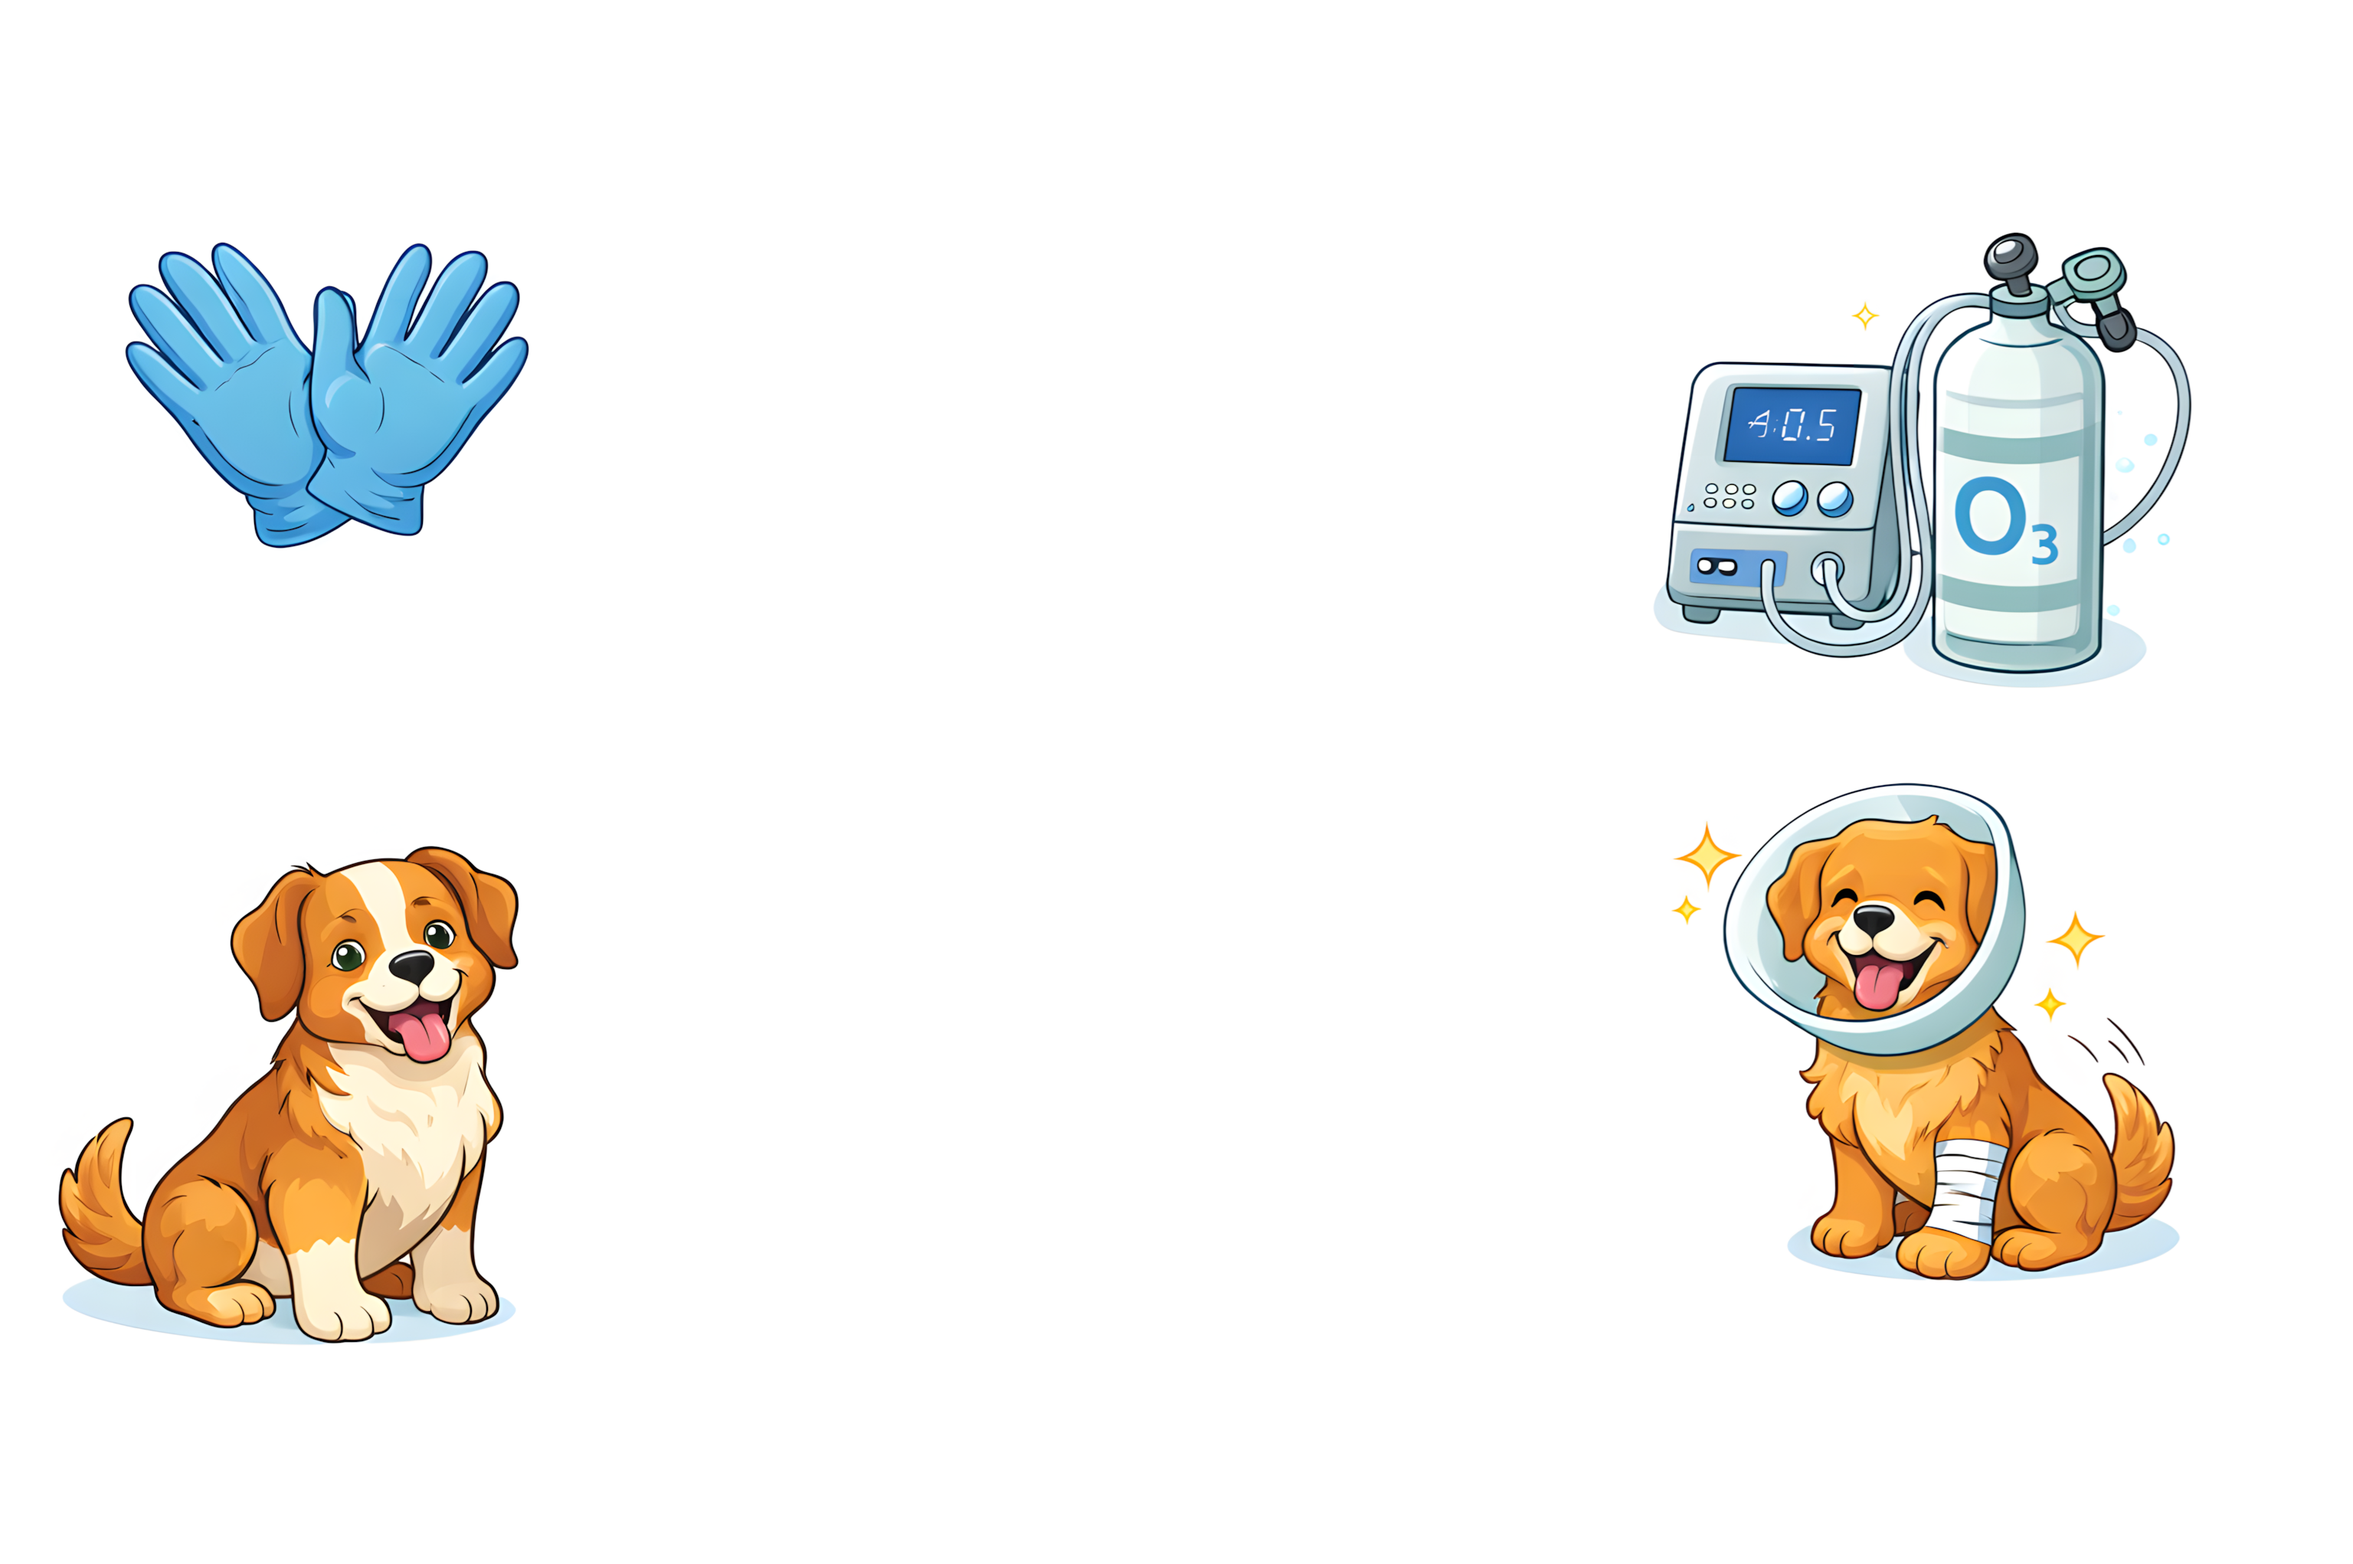
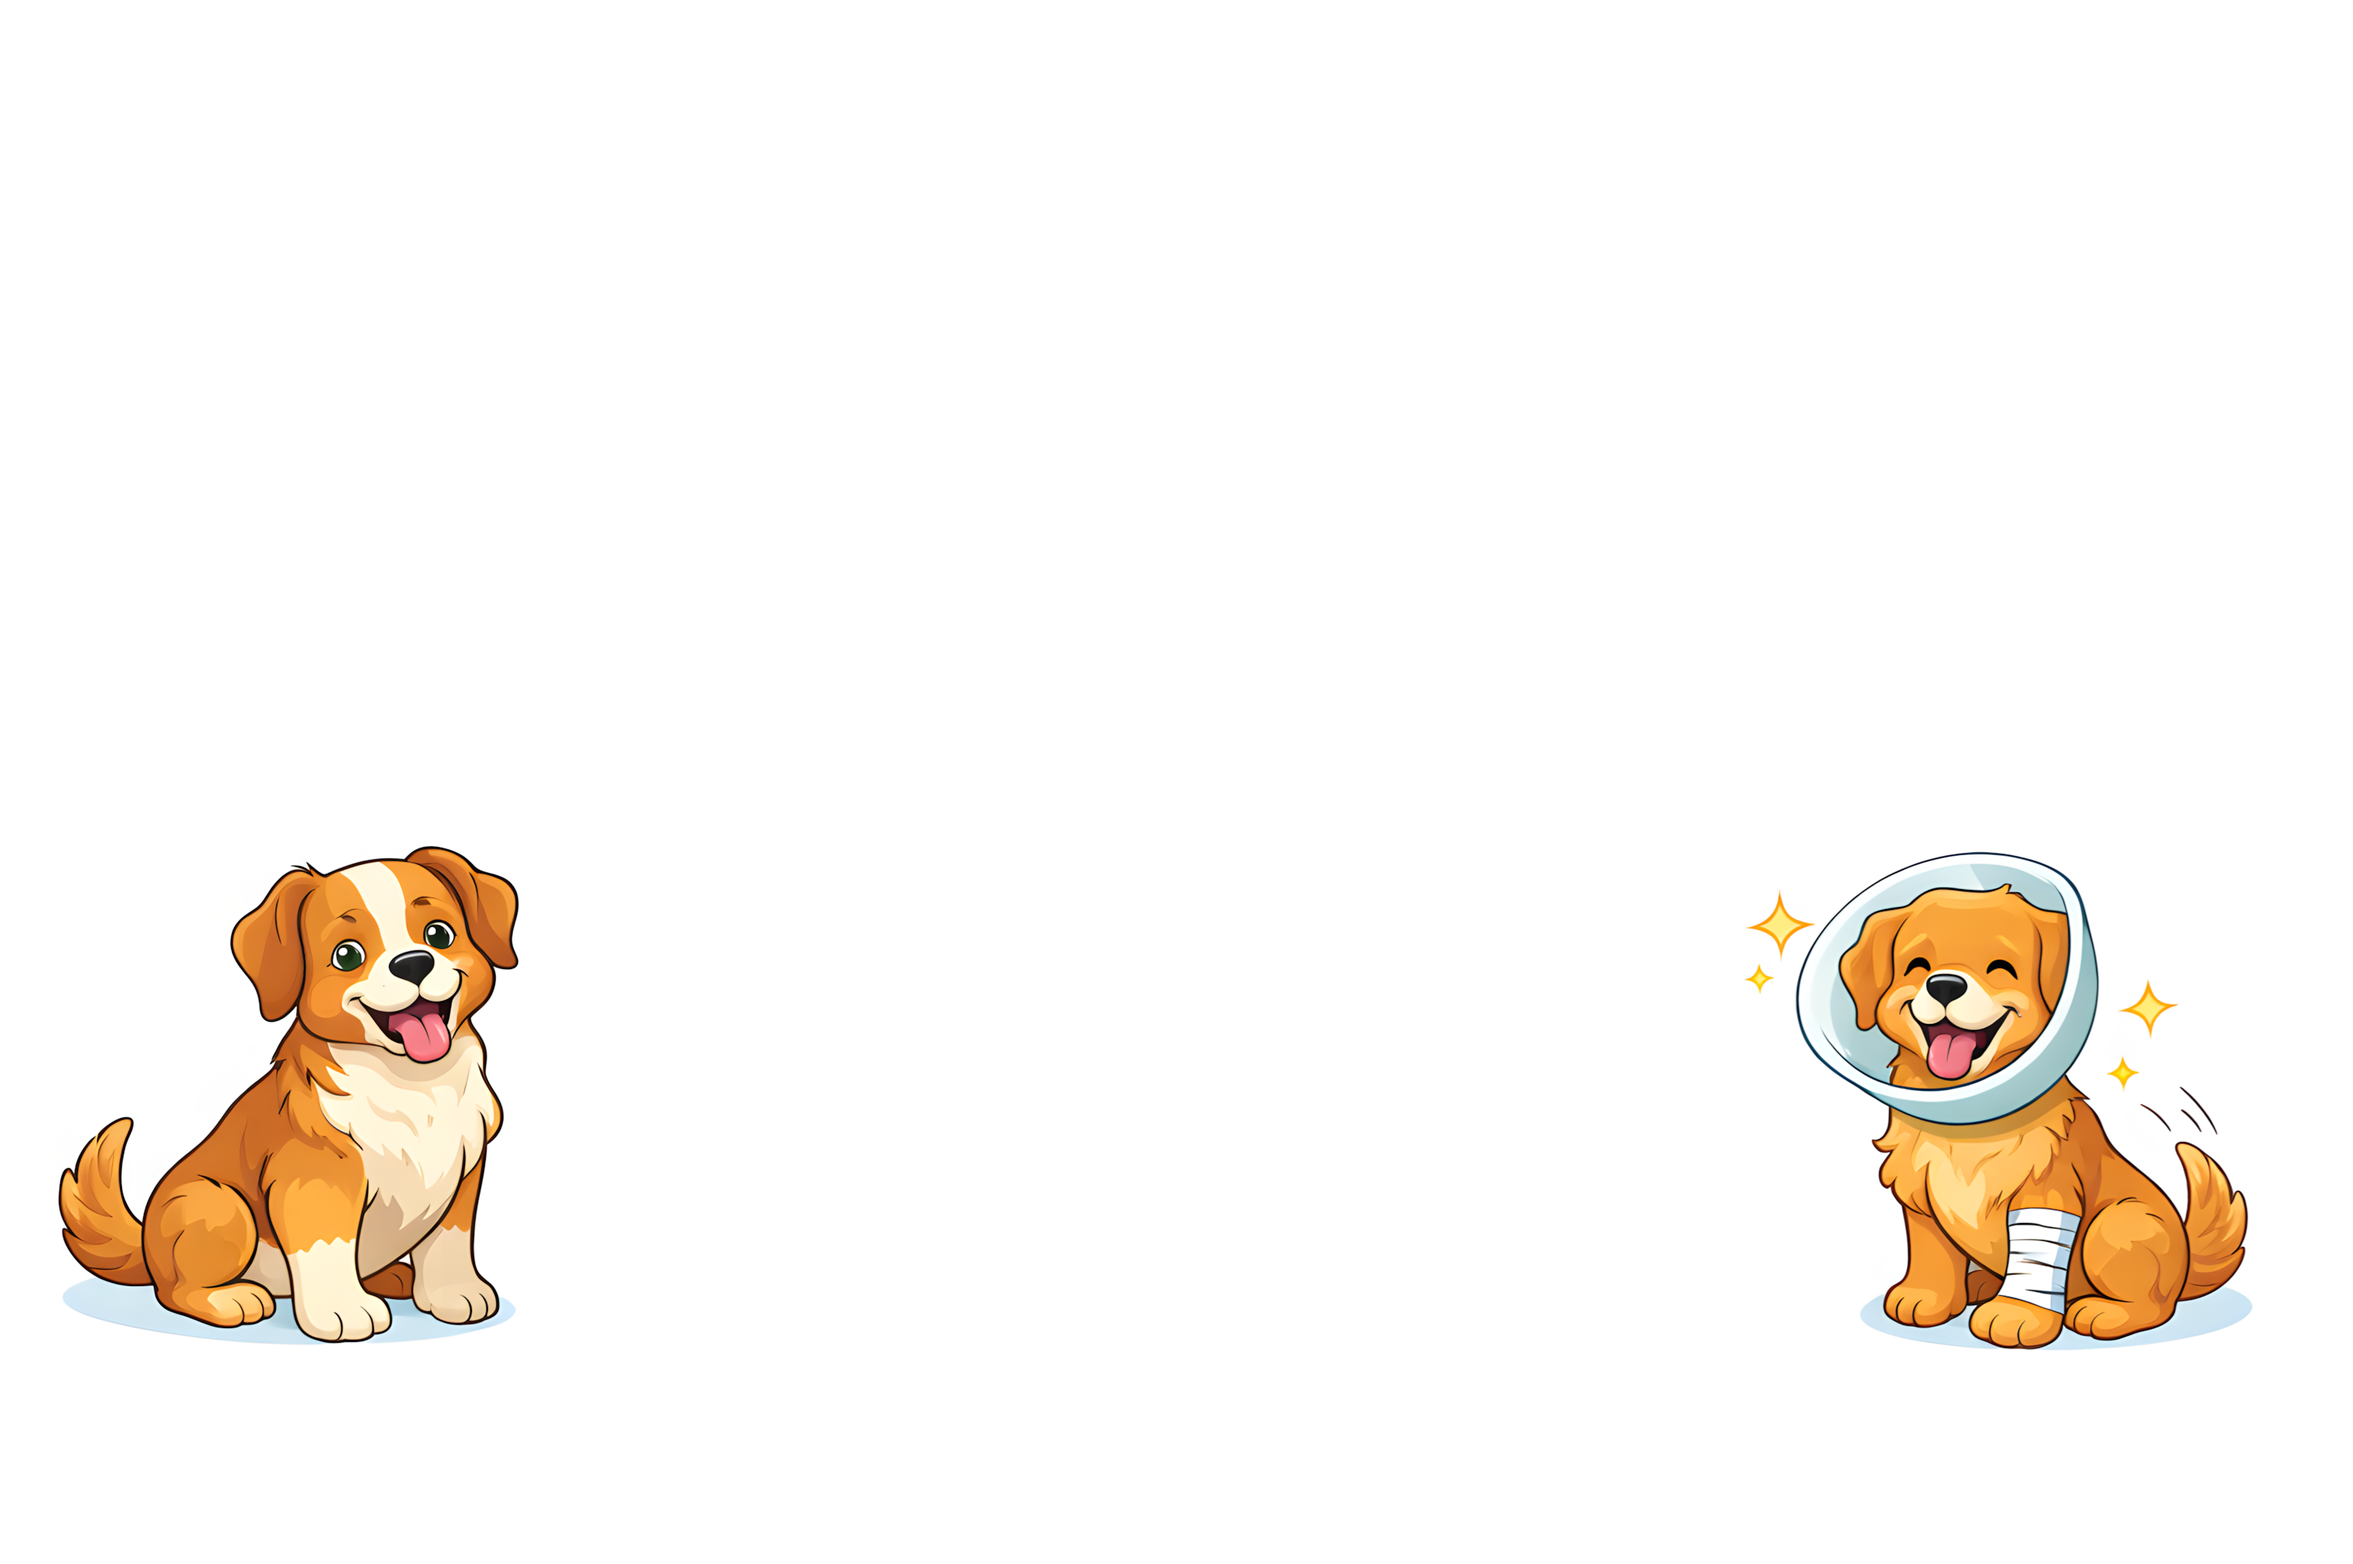
update v2

Changed region(s): [[0.7188, 0.4936, 0.9688, 0.8639], [0.6875, 0.1543, 0.9375, 0.4628], [0.0312, 0.1543, 0.25, 0.3702]]

diff --git a/index.html b/index.html
@@ -4,7 +4,7 @@
 <meta charset="UTF-8">
 <meta name="viewport" content="width=device-width, initial-scale=1.0">
 <title>Ozonoterapia Veterinaria – Somavet Formación</title>
-<link href="https://fonts.googleapis.com/css2?family=Cormorant+Garamond:ital,wght@0,400;0,600;1,400&family=Outfit:wght@300;400;500;600&display=swap" rel="stylesheet">
+<link href="https://fonts.googleapis.com/css2?family=Cormorant+Garamond:ital,wght@0,400;0,600;1,400&family=Outfit:wght@300;400;500;600&family=Inter:wght@400;600;700;800&display=swap" rel="stylesheet">
 <style>
 *,*::before,*::after{box-sizing:border-box;margin:0;padding:0}
 :root{
@@ -13,7 +13,7 @@
   --accent:#c8f25a;--white:#fff;--gray:#6b7e7a;
 }
 html{scroll-behavior:smooth}
-body{font-family:'Outfit',sans-serif;background:var(--cream);color:var(--ink);overflow-x:hidden}
+body{font-family:'Outfit',sans-serif;background:white;color:var(--ink);overflow-x:hidden}
 
 /* NAV */
 nav{position:fixed;top:0;left:0;right:0;z-index:200;display:flex;align-items:center;justify-content:space-between;padding:1rem 3rem;background:rgba(3,46,41,.96);backdrop-filter:blur(10px);border-bottom:1px solid rgba(14,168,148,.15);box-shadow:4px 8px 5px rgba(0,0,0,0.3)}
@@ -38,7 +38,7 @@ nav{position:fixed;top:0;left:0;right:0;z-index:200;display:flex;align-items:cen
 .hero-title{font-family:'Cormorant Garamond',serif;font-size:clamp(3.2rem,7vw,6rem);line-height:1.05;color:rgb(36, 36, 36);margin-bottom:1.6rem;animation:fadeUp .6s .1s ease both}
 .hero-title em{font-style:italic;color:var(--teal-lt)}
 .hero-initial{position:relative;display:inline-block;white-space:nowrap}
-.hero-initial::after{content:'';position:absolute;left:0;right:0;bottom:8px;height:5px;background:#000;opacity:1}
+.hero-initial::after{content:'';position:absolute;left:0;right:0;bottom:2px;height:5px;background:#000;opacity:1}
 .hero-sub{font-size:1.4rem;line-height:1.8;color:rgba(22, 22, 22, 0.76);max-width:580px;margin:0 auto 2.8rem;animation:fadeUp .6s .2s ease both}
 .hero-cta{display:flex;gap:1rem;flex-wrap:wrap;justify-content:center;animation:fadeUp .6s .3s ease both}
 .btn-primary{background:var(--accent);color:var(--ink);font-family:'Outfit',sans-serif;font-weight:600;font-size:1.1rem;letter-spacing:.06em;text-transform:uppercase;padding:.85rem 2rem;border:none;border-radius:3px;cursor:pointer;text-decoration:none;transition:transform .2s,box-shadow .2s;display:inline-block}
@@ -202,6 +202,99 @@ section{padding:5rem 4rem}
 .next-desc{font-size:1.2rem;color:rgba(245,240,232,.5);margin-top:.4rem;max-width:340px}
 .next-btn{background:var(--accent);color:var(--ink);font-family:'Outfit',sans-serif;font-weight:600;font-size:1.1rem;letter-spacing:.08em;text-transform:uppercase;padding:1rem 2.5rem;border-radius:3px;text-decoration:none;white-space:nowrap;flex-shrink:0;transition:transform .2s,box-shadow .2s}
 .next-btn:hover{transform:translateY(-2px);box-shadow:0 8px 24px rgba(200,242,90,.2)}
+.new-hero {
+  padding: 100px 40px;
+  margin-top: 200px;
+  margin-bottom: 200px;
+  background: white;
+}
+.new-hero-container {
+  max-width: 1200px;
+  margin: 0 auto;
+  display: flex;
+  align-items: center;
+  justify-content: space-between;
+  gap: 60px;
+}
+/* TEXT */
+.new-hero-text {
+  flex: 1;
+  max-width: 520px;
+}
+/* TAG */
+.new-hero-text .new-tag {
+  display: inline-block;
+  font-size: 13px;
+  font-weight: 700;
+  letter-spacing: 1.2px;
+  color: #0ea5a4; /* teal similar al de la imagen */
+  margin-bottom: 12px;
+}
+/* TITULO */
+.new-hero-text h1 {
+  font-size: 52px;
+  font-weight: 800;
+  line-height: 1.1;
+  color: #0f172a;
+  margin-bottom: 20px;
+  font-family: 'Inter', sans-serif;
+}
+/* PARRAFOS */
+.new-hero-text p {
+  font-size: 18px;
+  color: #475569;
+  line-height: 1.7;
+  margin-bottom: 14px;
+  font-family: 'Inter', sans-serif;
+}
+/* VISUAL */
+.new-hero-visual {
+  flex: 1;
+  position: relative;
+  display: flex;
+  justify-content: center;
+}
+/* SHAPE DE FONDO */
+.new-bg-shape {
+  position: absolute;
+  width: 90%;
+  height: 90%;
+  background: linear-gradient(135deg, #6366f1, #ec4899);
+  border-radius: 20px;
+  transform: rotate(-6deg);
+  z-index: 0;
+  /* sombra en vez de blur */
+  box-shadow: 0 15px 40px rgba(0, 0, 0, 0.58);
+}
+/* CARD DEL VIDEO */
+.new-video-card {
+  position: relative;
+  background: white;
+  border-radius: 16px;
+  overflow: hidden;
+  z-index: 1;
+  width: 100%;
+  max-width: 500px;
+  box-shadow: 0 25px 60px rgba(0, 0, 0, 0.15);
+  /* animación suave */
+  transition: transform 0.4s ease, box-shadow 0.4s ease;
+}
+.new-video-card:hover {
+  transform: skewY(-2deg) scale(1.02);
+  box-shadow: 0 35px 80px rgba(0, 0, 0, 0.25);
+}
+.new-video-card img {
+  width: 100%;
+  display: block;
+}
+@media (max-width: 900px) {
+  .new-hero-container {
+    flex-direction: column;
+    text-align: center;
+  }
+  .new-hero-text h1 {
+    font-size: 36px;
+  }
 
 /* SCROLL ANIMATIONS */
 .animate-section{opacity:0}
@@ -259,6 +352,8 @@ section{padding:5rem 4rem}
   .collage-3 .ph:first-child{grid-row:span 1}
   .next-section{flex-direction:column;padding:3rem 1.4rem;text-align:center}
   .next-desc{margin:0 auto}
+  .new-hero{margin-top:100px; margin-bottom:100px;}
+}
 }
 </style>
 </head>
@@ -298,6 +393,9 @@ section{padding:5rem 4rem}
   </div>
 </section>
 
+<!-- NEW HERO -->
+
+
 <!-- OBJETIVOS -->
 <section class="s-dark animate-section" id="objetivos">
   <div class="objetivos-wrap">
@@ -306,6 +404,31 @@ section{padding:5rem 4rem}
       <div class="obj-label">01</div>
     </div>
     <p class="obj-text">Adquirir los conocimientos necesarios teorico-prácticos de la Ozonoterapia aplicada a la Medicina Veterinaria en distintas patologías de las diversas especies de animales (animales pequeños, animales grandes, exóticos), la adecuada utilización de sus vías de administración, dosis, concentraciones a aplicar y duración del tratamiento.</p>
+  </div>
+</section>
+
+<section class="new-hero">
+  <div class="new-hero-container">
+    <!-- Texto -->
+    <div class="new-hero-text">
+      <span class="new-tag">No dejes pasar la oportunidad</span>
+      <h1>Una nueva forma de sanar.</h1>
+      <p>
+        La ozonoterapia es un tratamiento innovador que ayuda a reducir el dolor, acelerar la recuperación y 
+        fortalecer el sistema inmunológico de tu mascota de forma segura y efectiva.
+      </p>
+      <p>
+        Ideal para tratar lesiones, inflamaciones y diversas patologías, este enfoque terapéutico 
+        complementa los tratamientos tradicionales y mejora el bienestar general.
+      </p>
+    </div>
+    <!-- Visual (GIF + fondo + sombra) -->
+    <div class="new-hero-visual">
+      <div class="new-bg-shape"></div>
+      <div class="new-video-card">
+        <img src="test.gif" alt="preview" />
+      </div>
+    </div>
   </div>
 </section>
 
@@ -441,7 +564,7 @@ section{padding:5rem 4rem}
 
     <div class="mec-img" id="mecImgWrap">
       <div class="mec-img-glow" id="mecGlow"></div>
-      <img src="CHATGPTimage2.png" alt="Mecanismo de acción del ozono" style="width:90%;display:block;object-fit:contain;background:none">
+      <img src="CHATGPTimage2.png" alt="Mecanismo de acción del ozono" style="width:90%;display:block;object-fit:contain;background:none;border-radius:20px;box-shadow: 20px 20px 70px 20px #0000008c;">
     </div>
 
   </div>

diff --git a/section-individual.html b/section-individual.html
@@ -1,0 +1,148 @@
+<!DOCTYPE html>
+<html lang="en">
+<head>
+    <meta charset="UTF-8">
+    <meta name="viewport" content="width=device-width, initial-scale=1.0">
+    <title>Document</title>
+    <link href="https://fonts.googleapis.com/css2?family=Inter:wght@400;600;700;800&display=swap" rel="stylesheet">
+</head>
+<style>
+body {
+  font-family: 'Inter', sans-serif;
+}
+    .hero {
+  padding: 100px 40px;
+  background: #f8fafc;
+}
+
+.hero-container {
+  max-width: 1200px;
+  margin: 0 auto;
+  display: flex;
+  align-items: center;
+  justify-content: space-between;
+  gap: 60px;
+}
+
+/* TEXT */
+.hero-text {
+  flex: 1;
+  max-width: 520px;
+}
+
+/* TAG */
+.hero-text .tag {
+  display: inline-block;
+  font-size: 13px;
+  font-weight: 700;
+  letter-spacing: 1.2px;
+  color: #0ea5a4; /* teal similar al de la imagen */
+  margin-bottom: 12px;
+}
+
+/* TITULO */
+.hero-text h1 {
+  font-size: 52px;
+  font-weight: 800;
+  line-height: 1.1;
+  color: #0f172a;
+  margin-bottom: 20px;
+}
+
+/* PARRAFOS */
+.hero-text p {
+  font-size: 18px;
+  color: #475569;
+  line-height: 1.7;
+  margin-bottom: 14px;
+}
+
+/* VISUAL */
+.hero-visual {
+  flex: 1;
+  position: relative;
+  display: flex;
+  justify-content: center;
+}
+
+/* SHAPE DE FONDO */
+.bg-shape {
+  position: absolute;
+  width: 90%;
+  height: 90%;
+  background: linear-gradient(135deg, #6366f1, #ec4899);
+  border-radius: 20px;
+  transform: rotate(-6deg);
+  z-index: 0;
+
+  /* sombra en vez de blur */
+box-shadow: 0 15px 40px rgba(0, 0, 0, 0.18);
+}
+
+/* CARD DEL VIDEO */
+.video-card {
+  position: relative;
+  background: white;
+  border-radius: 16px;
+  overflow: hidden;
+  z-index: 1;
+  width: 100%;
+  max-width: 500px;
+
+  box-shadow: 0 25px 60px rgba(0, 0, 0, 0.15);
+
+  /* animación suave */
+  transition: transform 0.4s ease, box-shadow 0.4s ease;
+}
+
+.video-card:hover {
+  transform: skewY(-2deg) scale(1.02);
+  box-shadow: 0 35px 80px rgba(0, 0, 0, 0.25);
+}
+.video-card img {
+  width: 100%;
+  display: block;
+}
+
+@media (max-width: 900px) {
+  .hero-container {
+    flex-direction: column;
+    text-align: center;
+  }
+
+  .hero-text h1 {
+    font-size: 36px;
+  }
+}
+</style>
+<body>
+    <section class="hero">
+        <div class="hero-container">
+            
+            <!-- Texto -->
+            <div class="hero-text">
+            <span class="tag">RESPONSIVE DESIGN</span>
+            <h1>Una nueva forma de sanar.</h1>
+            <p>
+                La ozonoterapia es un tratamiento innovador que ayuda a reducir el dolor, acelerar la recuperación y 
+                fortalecer el sistema inmunológico de tu mascota de forma segura y efectiva.
+            </p>
+            <p>
+                Ideal para tratar lesiones, inflamaciones y diversas patologías, este enfoque terapéutico 
+                complementa los tratamientos tradicionales y mejora el bienestar general.
+            </p>
+            </div>
+
+            <!-- Visual (GIF + fondo + sombra) -->
+            <div class="hero-visual">
+            <div class="bg-shape"></div>
+
+            <div class="video-card">
+                <img src="test.gif" alt="preview" />
+            </div>
+            </div>
+
+        </div>
+    </section>
+</body>
+</html>
